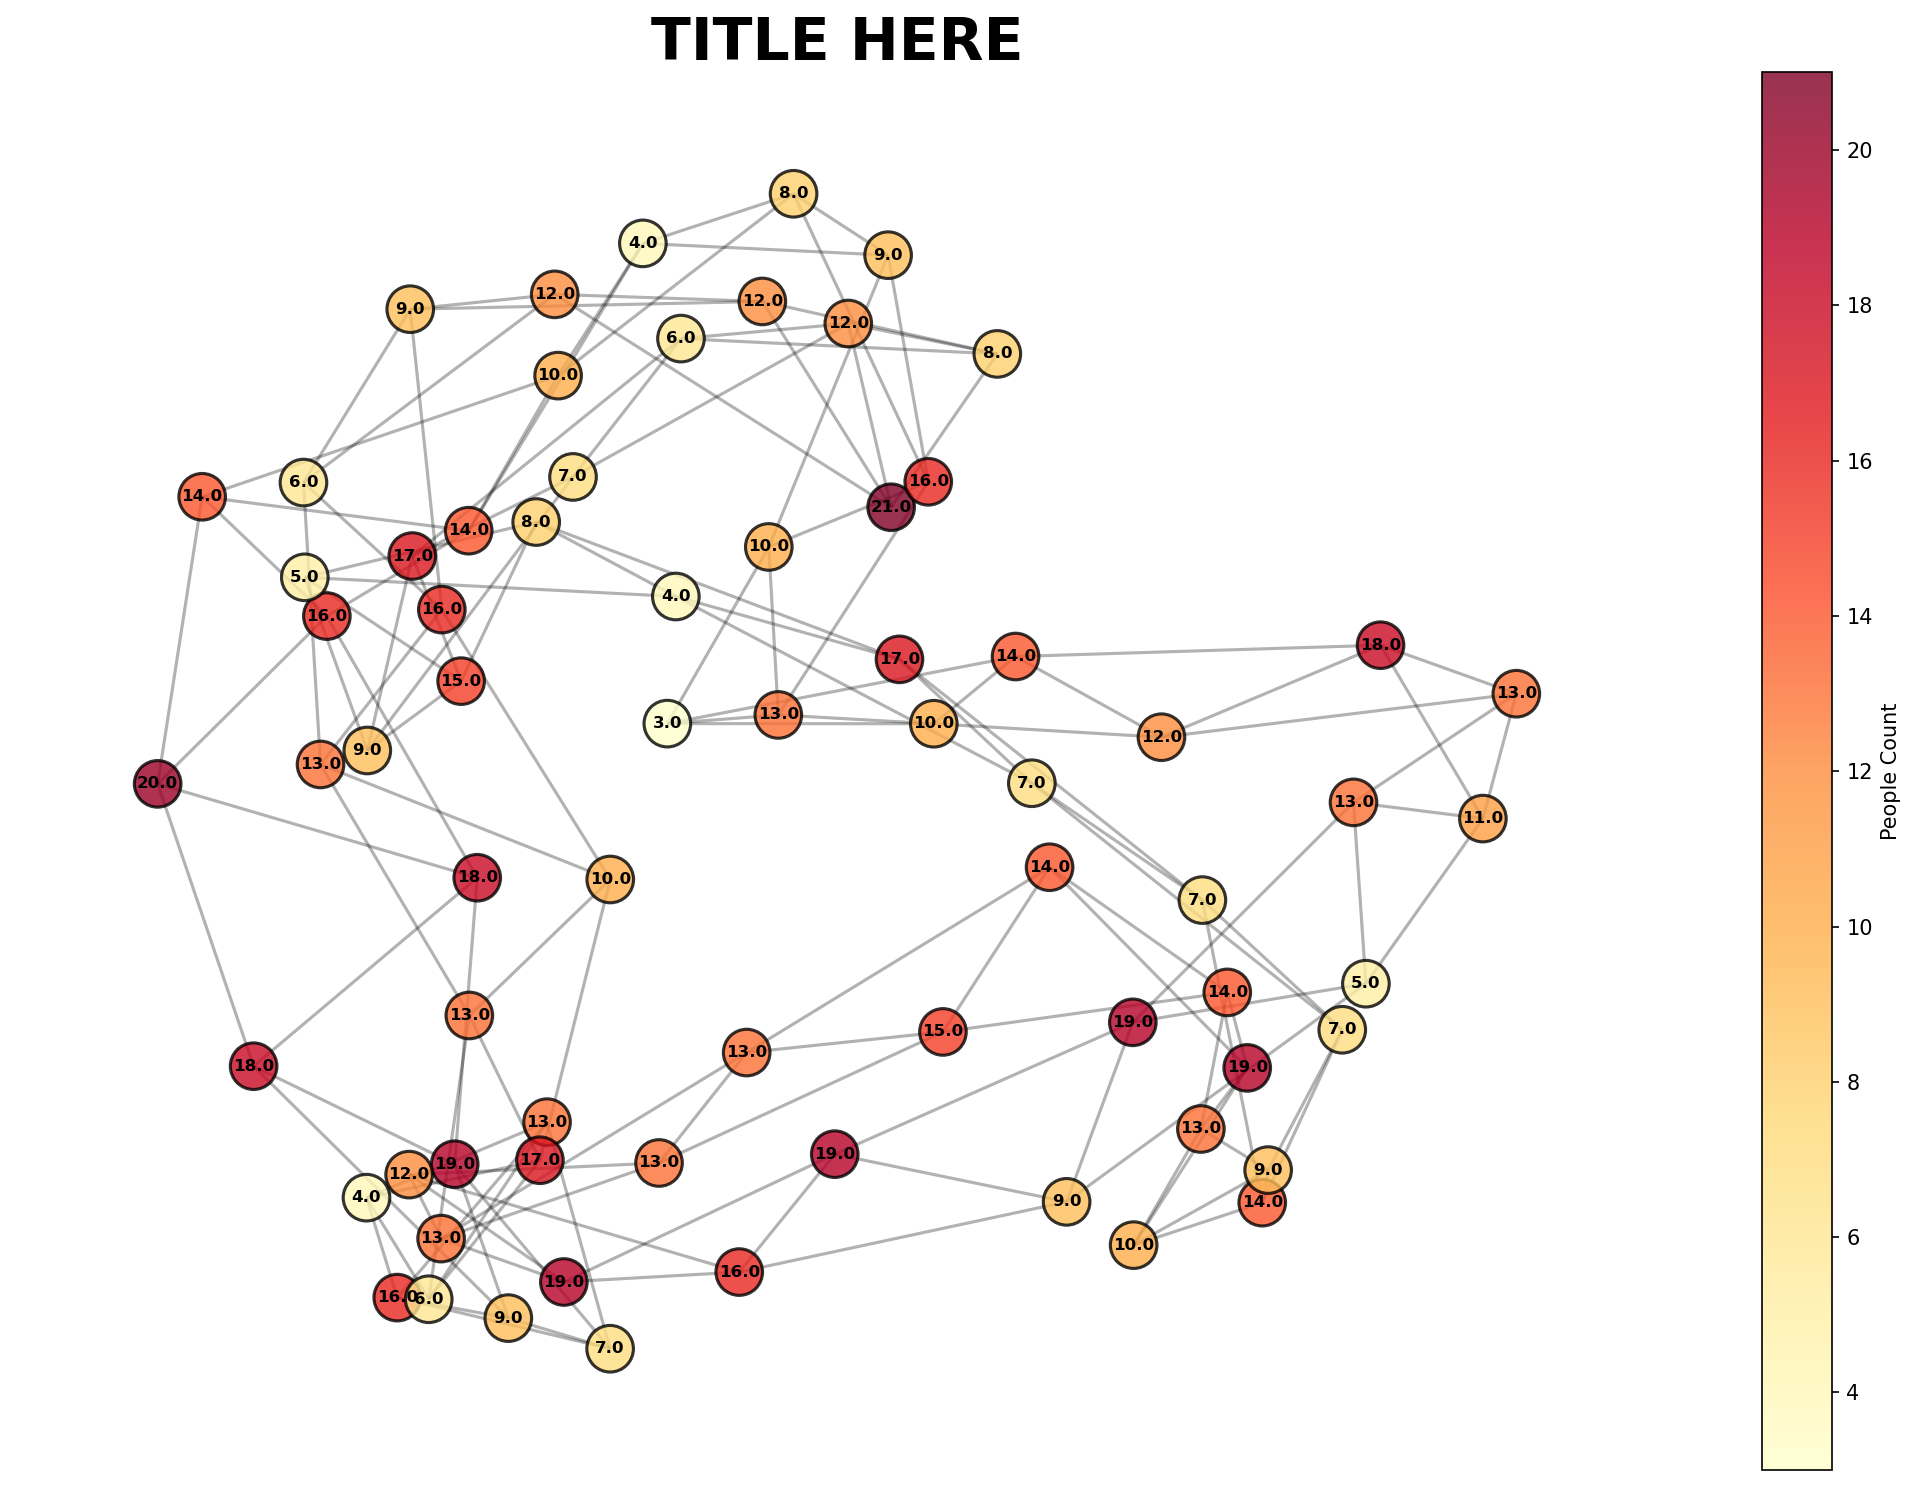
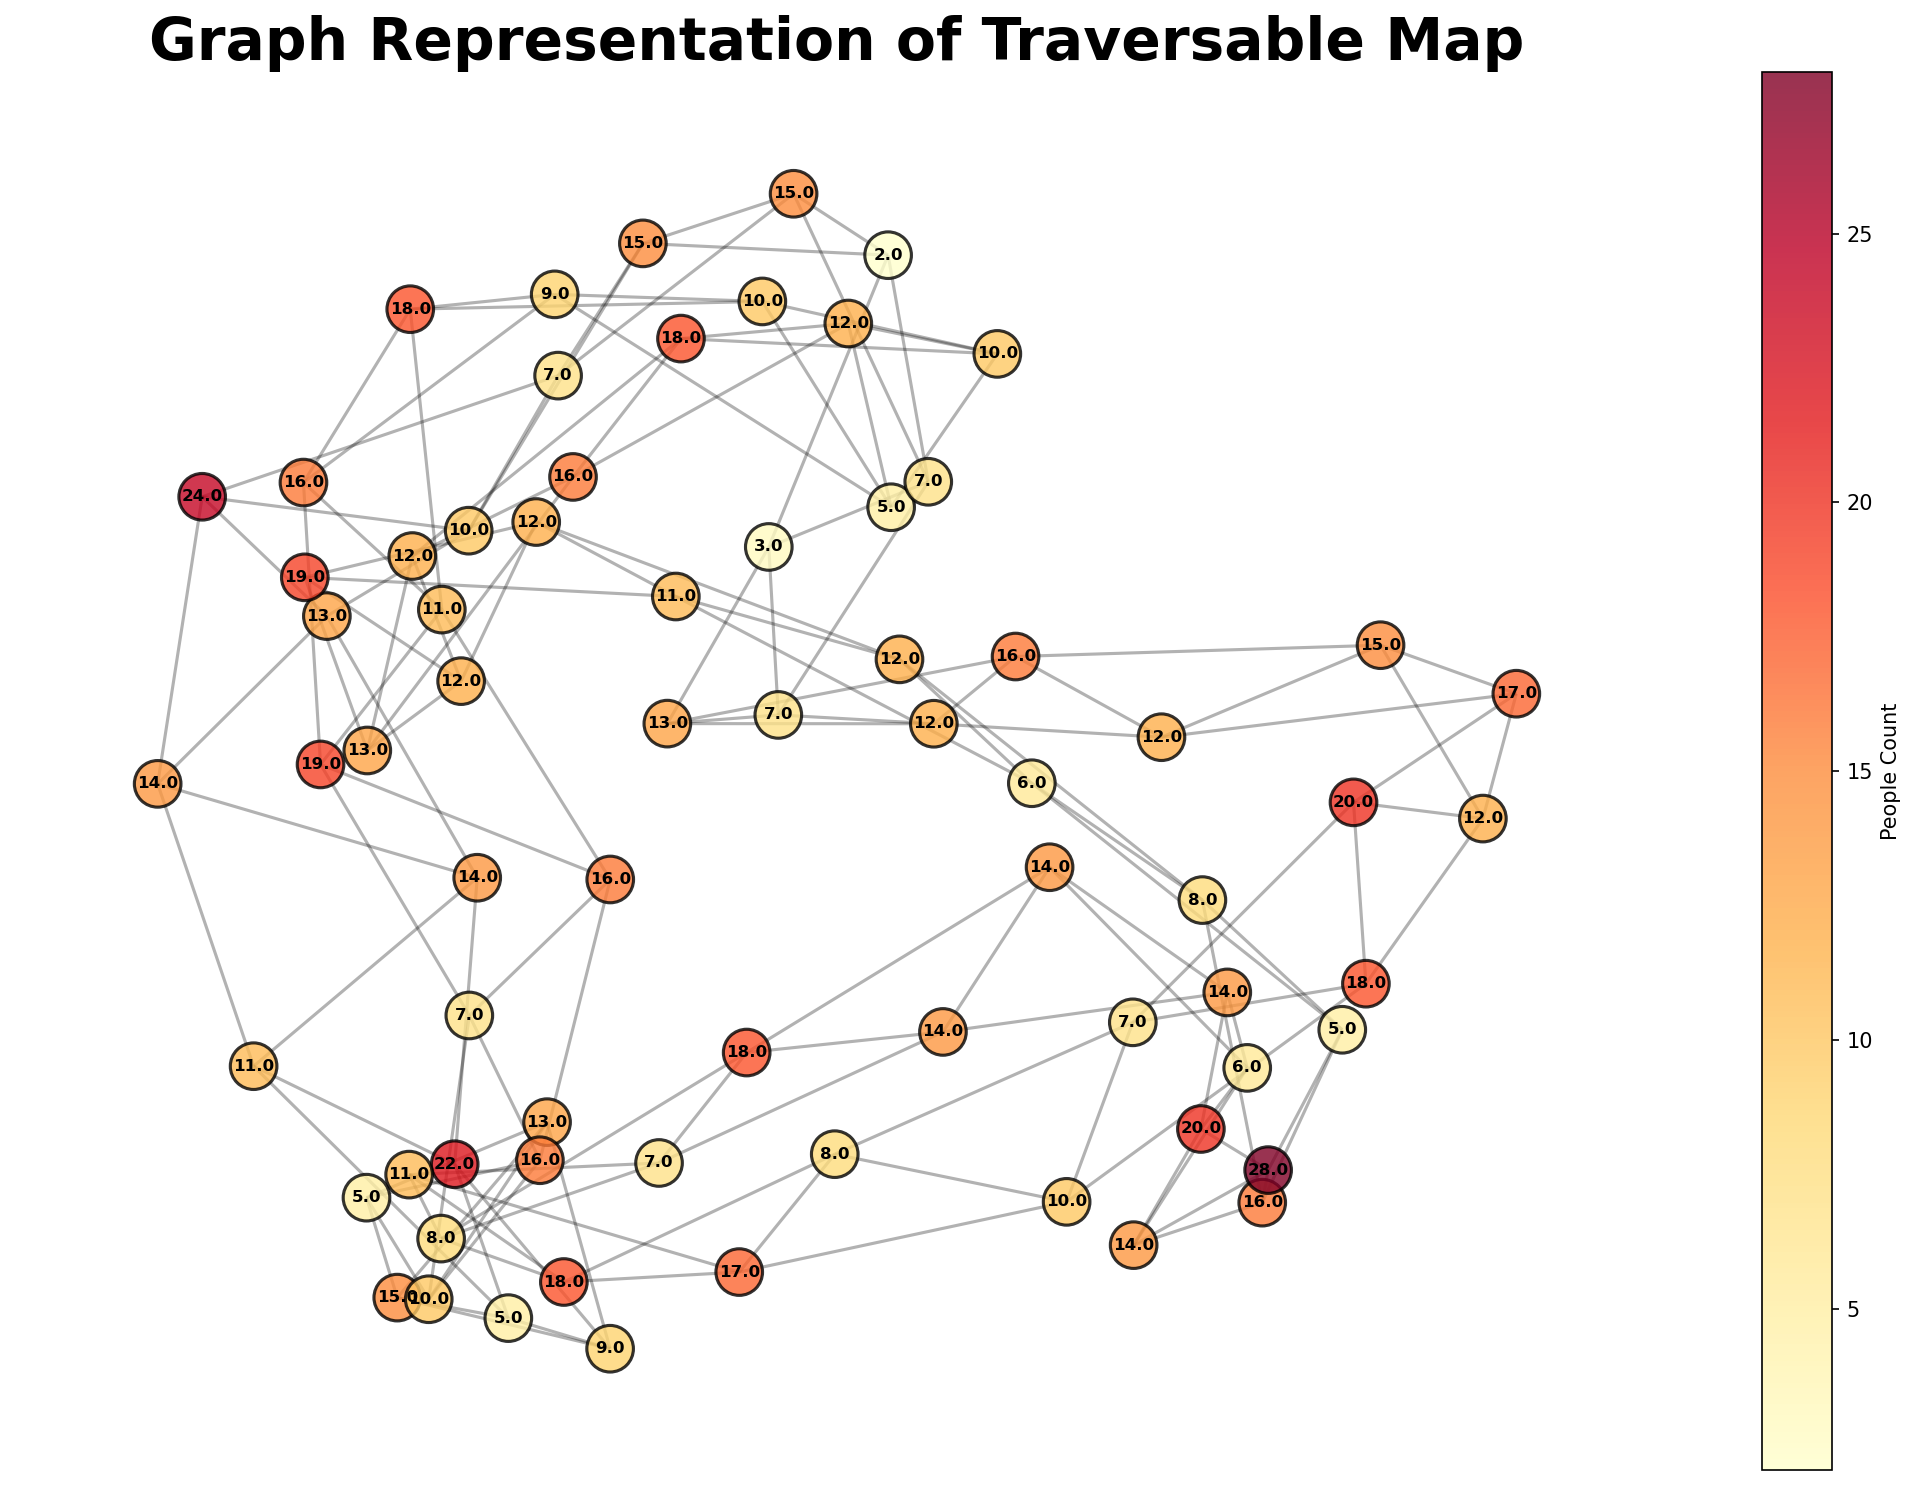
cleanup and visual aid graph

diff --git a/moead.py b/moead.py
@@ -95,7 +95,7 @@ class MOEAD:
         self.lambdas = np.empty((pop_size_n, 3))  # weight vectors for the 3 objectives
 
         self.zi = np.array([float('inf')] * 3)  # ideal point, initialized to infinity for minimization
-        self.nadir = np.array([-float('inf')] * 3)  # nadir point, initialized to negative infinity for minimization
+        self.nadir = np.array([-float('inf')] * 3)  # nadir point, use this to track the worst objective values. Used to normalize values later. 
 
         # This is how the map is defined. Where the bots can go, where people are. 
         self.map = map
@@ -112,7 +112,8 @@ class MOEAD:
         self.ep = []
 
     def initialize_weight_vectors(self):
-        # TODO: Use Das and Dennis method to initialize weight vectors.
+        # randomly weight vectors for each subproblem. 
+        # sub of weights should add to 1.
         self.lambdas = np.random.rand(self.pop_size_n, 3)
         self.lambdas = self.lambdas / np.sum(self.lambdas, axis=1, keepdims=True)
     
@@ -170,7 +171,7 @@ class MOEAD:
         """
         # Calculate the range (max - min) to normalize the objective.
         range_z = self.nadir - self.zi
-        range_z[range_z == 0] = 1e-5  # add machine epsilon to avoid /0 (not really epsilon but small value)
+        range_z[range_z == 0] = 1e-5  # add machine epsilon to avoid / 0 (not really epsilon but small value)
         
         # Normalize the fitness to a 0.0 - 1.0 scale
         normalized_fitness = (child_fitness - self.zi) / range_z
@@ -257,8 +258,8 @@ class MOEAD:
             # gen_fitness is (pop_size_n, 3)
             gen_fitness = np.array(gen_fitness)
             
-            # Normalize fitness values to [-1, 1]
-            normalized_fitness = 2 * (gen_fitness - self.zi) / range_z - 1
+            # Normalize fitness values to [0, 1]
+            normalized_fitness = (gen_fitness - self.zi) / range_z
             
             # Color: light blue (gen 0) to dark blue (final generation)
             color_intensity = gen_idx / max(1, num_generations - 1)  # 0 to 1
@@ -266,12 +267,12 @@ class MOEAD:
             
             # Plot all solutions from this generation
             ax.scatter(normalized_fitness[:, 0], normalized_fitness[:, 1], normalized_fitness[:, 2],
-                      color=color, s=30, alpha=0.6, label=f"Gen {gen_idx}" if gen_idx % max(1, num_generations // 5) == 0 else "")
+                      color=color, s=30, alpha=0.6)
         
         # Highlight EP solutions in red
         if self.ep:
             ep_fitness = np.array([fitness for _, fitness in self.ep])
-            normalized_ep_fitness = 2 * (ep_fitness - self.zi) / range_z - 1
+            normalized_ep_fitness = (ep_fitness - self.zi) / range_z
             ax.scatter(normalized_ep_fitness[:, 0], normalized_ep_fitness[:, 1], normalized_ep_fitness[:, 2],
                       color='red', s=100, marker='*', edgecolors='darkred', linewidths=2, 
                       label='Efficient Set (EP)', zorder=5)
@@ -283,9 +284,9 @@ class MOEAD:
         ax.set_title('3D Objective Space: Evolution Progress', fontsize=13, fontweight='bold')
         
         # Set normalized axis limits
-        ax.set_xlim(-1, 1)
-        ax.set_ylim(-1, 1)
-        ax.set_zlim(-1, 1)
+        ax.set_xlim(0, 1)
+        ax.set_ylim(0, 1)
+        ax.set_zlim(0, 1)
         
         # Set isometric view
         ax.view_init(elev=20, azim=45)
@@ -298,105 +299,88 @@ class MOEAD:
         print(f"Visualization saved to {filename}")
         plt.close()
     
-    def visualize_swarm_trajectory(self, individual, episode_name="swarm_trajectory", fps=1):
-        """
-        Visualize a swarm's movement across all timesteps.
-        Creates individual frames for each timestep and stitches them into a GIF.
-        
-        @param individual: Single swarm individual from EP - shape (num_bots, timeline)
-        @param episode_name: Base name for output files
-        @param fps: Frames per second for the GIF
-        """
+    def visualize_swarm_trajectory(self, individual, graph, episode_name="swarm_trajectory", fps=2):
         frames_dir = f"{episode_name}_frames"
         if not os.path.exists(frames_dir):
             os.makedirs(frames_dir)
         
-        # Convert graph to networkx
-        G = nx.Graph()
-        for node in self.map.keys():
-            G.add_node(node.id, people=node.people)
-        for node, neighbors in self.map.items():
-            for neighbor in neighbors:
-                G.add_edge(node.id, neighbor.id)
+        G = graph
         
-        # Use spring layout for consistent positioning across all frames
-        pos = nx.spring_layout(G, k=0.5, iterations=50, seed=42)
+        # Use circular layout for clarity and consistency
+        pos = nx.circular_layout(G)
         
         frame_files = []
         num_bots, timeline = individual.shape
+        
+        # Color palette for individual bots
+        bot_colors = plt.cm.tab20(np.linspace(0, 1, num_bots))
         
         # Create frame for each timestep
         for timestep in range(timeline):
             fig, ax = plt.subplots(figsize=(12, 10))
             
-            # Get bot positions at this timestep
-            bots_at_timestep = individual[:, timestep]
-            bot_positions = {}
-            for bot_id, node in enumerate(bots_at_timestep):
-                if node.id not in bot_positions:
-                    bot_positions[node.id] = 0
-                bot_positions[node.id] += 1
+            # Get bot positions at current and next timestep
+            current_bots = individual[:, timestep]
+            next_bots = individual[:, timestep + 1] if timestep < timeline - 1 else current_bots
+
+            # Draw edges in light gray
+            nx.draw_networkx_edges(G, pos, ax=ax, alpha=0.15, width=1.5, edge_color='gray')
             
-            # Draw edges
-            nx.draw_networkx_edges(G, pos, ax=ax, alpha=0.2, width=1)
+            # Draw individual bots offset from node positions - arranged around nodes
+            offset_distance = 0.2
+            for bot_id in range(num_bots):
+                current_node_id = current_bots[bot_id].id
+                next_node_id = next_bots[bot_id].id
+                
+                current_node_pos = pos[current_node_id]
+                next_node_pos = pos[next_node_id]
+                
+                # Arrange bots in a circle around their node (not stacked)
+                # Each bot gets its own angle based on its ID
+                angle_per_bot = 2 * np.pi / num_bots
+                bot_angle = bot_id * angle_per_bot
+                
+                # Position current bot around current node
+                bot_current_pos = (current_node_pos[0] + offset_distance * np.cos(bot_angle),
+                                  current_node_pos[1] + offset_distance * np.sin(bot_angle))
+                
+                # Position next bot around next node
+                bot_next_pos = (next_node_pos[0] + offset_distance * np.cos(bot_angle),
+                               next_node_pos[1] + offset_distance * np.sin(bot_angle))
+                
+                # Draw arrow from current to next position
+                if timestep < timeline - 1:
+                    dx = bot_next_pos[0] - bot_current_pos[0]
+                    dy = bot_next_pos[1] - bot_current_pos[1]
+                    
+                    ax.arrow(bot_current_pos[0], bot_current_pos[1], dx * 0.85, dy * 0.85,
+                            head_width=0.06, head_length=0.04, fc=bot_colors[bot_id], 
+                            ec='black', alpha=0.6, linewidth=1.5, zorder=3)
+                
+                # Draw bot as a small circle at offset position
+                ax.scatter(bot_current_pos[0], bot_current_pos[1], s=150, c=[bot_colors[bot_id]],
+                          edgecolors='black', linewidths=1.2, zorder=4, marker='o')
+                
+                # "B" for robot
+                ax.text(bot_current_pos[0], bot_current_pos[1], "B", 
+                       ha='center', va='center', fontsize=7, fontweight='bold', zorder=5, color='black')
             
-            # Draw nodes (by people count)
-            node_sizes = 500 #[G.nodes[node_id]['people'] * 50 + 100 for node_id in G.nodes()]
-            people_counts = [G.nodes[node_id]['people'] for node_id in G.nodes()]
+            # Title
+            ax.set_title(f'Timestep {timestep}/{timeline - 1}', fontsize=12, fontweight='bold', pad=12)
             
-            nodes = nx.draw_networkx_nodes(G, pos, ax=ax, node_size=node_sizes,
-                                          node_color=people_counts, cmap='YlOrRd',
-                                          alpha=0.7, edgecolors='black', linewidths=1.5)
-            
-            # Overlay bot positions as larger stars
-            bot_node_ids = list(bot_positions.keys())
-            bot_node_positions = [pos[nid] for nid in bot_node_ids]
-            bot_counts = [bot_positions[nid] for nid in bot_node_ids]
-            
-            if bot_node_positions:
-                bot_xs = [p[0] for p in bot_node_positions]
-                bot_ys = [p[1] for p in bot_node_positions]
-                ax.scatter(bot_xs, bot_ys, s=[100 * count for count in bot_counts],
-                          c='red', marker='*', edgecolors='navy', linewidths=2, 
-                          label='Bots', zorder=5, alpha=0.9)
-            
-            # Draw labels
-            labels = {node_id: f"{G.nodes[node_id]['people']}" for node_id in G.nodes()}
-            nx.draw_networkx_labels(G, pos, labels, ax=ax, font_size=7, font_weight='bold')
-            
-            # Add colorbar
-            cbar = plt.colorbar(nodes, ax=ax, label='People Count')
-            
-            # Title with timestep
-            ax.set_title(f'Swarm Deployment - Timestep {timestep}/{timeline - 1}\n({len(bots_at_timestep)} bots deployed)', 
-                        fontsize=13, fontweight='bold')
             ax.axis('off')
+            ax.set_aspect('equal')
             
             plt.tight_layout()
             
             # Save frame
-            frame_file = os.path.join(frames_dir, f"frame_{timestep:04d}.png")
-            plt.savefig(frame_file, dpi=100, bbox_inches='tight')
+            frame_file = os.path.join(frames_dir, f"frame_{timestep:02d}.png")
+            plt.savefig(frame_file, dpi=120, bbox_inches='tight', facecolor='white')
             frame_files.append(frame_file)
             plt.close()
         
-        # Create GIF from frames
-        gif_filename = f"{episode_name}.gif"
-        images = [imageio.v2.imread(f) for f in frame_files]
-        imageio.mimsave(gif_filename, images, fps=fps)
-        print(f"GIF saved to {gif_filename}")
-        
-        # Also save first and last frames as static images
-        first_frame_out = f"{episode_name}_first_timestep.png"
-        last_frame_out = f"{episode_name}_final_timestep.png"
-        
-        os.rename(frame_files[0], first_frame_out.replace('.png', '_temp.png'))
-        os.rename(frame_files[-1], last_frame_out.replace('.png', '_temp.png'))
-        
-        print(f"First frame: {first_frame_out}")
-        print(f"Final frame: {last_frame_out}")
-        print(f"All frames saved in: {frames_dir}")
-    
+        print(f"Frames are saved to {frames_dir}")
+
     # finding EP 
     def find_non_dominated_solutions(self, child, child_fitness):
         if not self.ep: # if empty, just child and give up 
@@ -412,7 +396,7 @@ class MOEAD:
         # if child is non-dominated after all solutions, add to EP.
         for index, (_, sol_fitness) in enumerate(self.ep):
 
-            # if equal, don't add to EP. To encourage diversity.
+            # if equal, don't add to EP. Solution already exists. 
             if np.array_equal(child_fitness, sol_fitness):
                 child_is_failure = True
                 break
@@ -483,7 +467,7 @@ def main(MAX_GENERATIONS=100, num_bots=5):
             # 4. Update neighbors. Calc chyvy score with new child y using weight vecors and Z. If lower (better) than current neighbors, overwrite population. 
             algo.update_neighborhood(child, child_fitness, i)
             
-            population.append(list(algo.fv[:int(np.floor(len(algo.fv)*0.3))].copy()))  # for visualization 
+            population.append(list(algo.fv[:int(np.floor(len(algo.fv)*1.0))].copy()))  # for visualization 
         
         print(f"Final Ideal Point (Z): {algo.zi} at {generation} generations.")
     
@@ -495,12 +479,12 @@ def main(MAX_GENERATIONS=100, num_bots=5):
     # Visualize swarm trajectory for the first EP solution
     if algo.ep:
         best_individual, best_fitness = algo.ep[0]
-        algo.visualize_swarm_trajectory(best_individual, episode_name="ep_solution_trajectory", fps=2)
+        algo.visualize_swarm_trajectory(best_individual, dense_graph, episode_name="ep_solution_trajectory", fps=2)
 
 
 if __name__ == "__main__":
 
     visualize_graph(dense_graph)
 
-    MAX_GENERATIONS = 1
+    MAX_GENERATIONS = 200
     main(MAX_GENERATIONS, num_bots=30)

diff --git a/graph.py b/graph.py
@@ -40,7 +40,14 @@ def create_kregular_graph(num_nodes=70, k=4):
     
     return graph
 
-def visualize_graph(graph, filename="campus_graph.png", layout="spring"):
+def create_small_world_graph(num_nodes=70, k=4, p=0.3):
+    G = nx.watts_strogatz_graph(num_nodes, k, p)
+    nodes = [Node(i, people=int(np.ceil(np.random.normal(12, 5)))) for i in range(num_nodes)]
+    node_map = {i: node for i, node in enumerate(nodes)}
+    graph = {node_map[i]: {node_map[j] for j in G.neighbors(i)} for i in range(num_nodes)}
+    return graph
+
+def visualize_graph(graph, filename="campus_graph.png"):
     # Convert to networkx graph
     G = nx.Graph()
     
@@ -57,14 +64,7 @@ def visualize_graph(graph, filename="campus_graph.png", layout="spring"):
     fig, ax = plt.subplots(figsize=(14, 10))
     
     # Choose layout
-    if layout == "spring":
-        pos = nx.spring_layout(G, k=0.5, iterations=50, seed=42)
-    elif layout == "circular":
-        pos = nx.circular_layout(G)
-    elif layout == "kamada_kawai":
-        pos = nx.kamada_kawai_layout(G)
-    else:
-        pos = nx.spring_layout(G, k=0.5, iterations=50, seed=42)
+    pos = nx.spring_layout(G, k=0.5, iterations=50, seed=42)
     
     # Color nodes by people count
     people_counts = [G.nodes[node]['people'] for node in G.nodes()]
@@ -85,7 +85,7 @@ def visualize_graph(graph, filename="campus_graph.png", layout="spring"):
     cbar = plt.colorbar(nodes, ax=ax, label='People Count')
     
     # Formatting
-    ax.set_title('TITLE HERE', fontsize=28, fontweight='bold')
+    ax.set_title('Graph Representation of Traversable Map', fontsize=28, fontweight='bold')
     ax.axis('off')
     
     plt.tight_layout()
@@ -95,3 +95,5 @@ def visualize_graph(graph, filename="campus_graph.png", layout="spring"):
 
 # Create graph with 70 nodes, each with ~4 neighbors
 dense_graph = create_kregular_graph(num_nodes=70, k=4)
+
+# dense_graph = create_small_world_graph(num_nodes=8, k=2, p=0.3)
